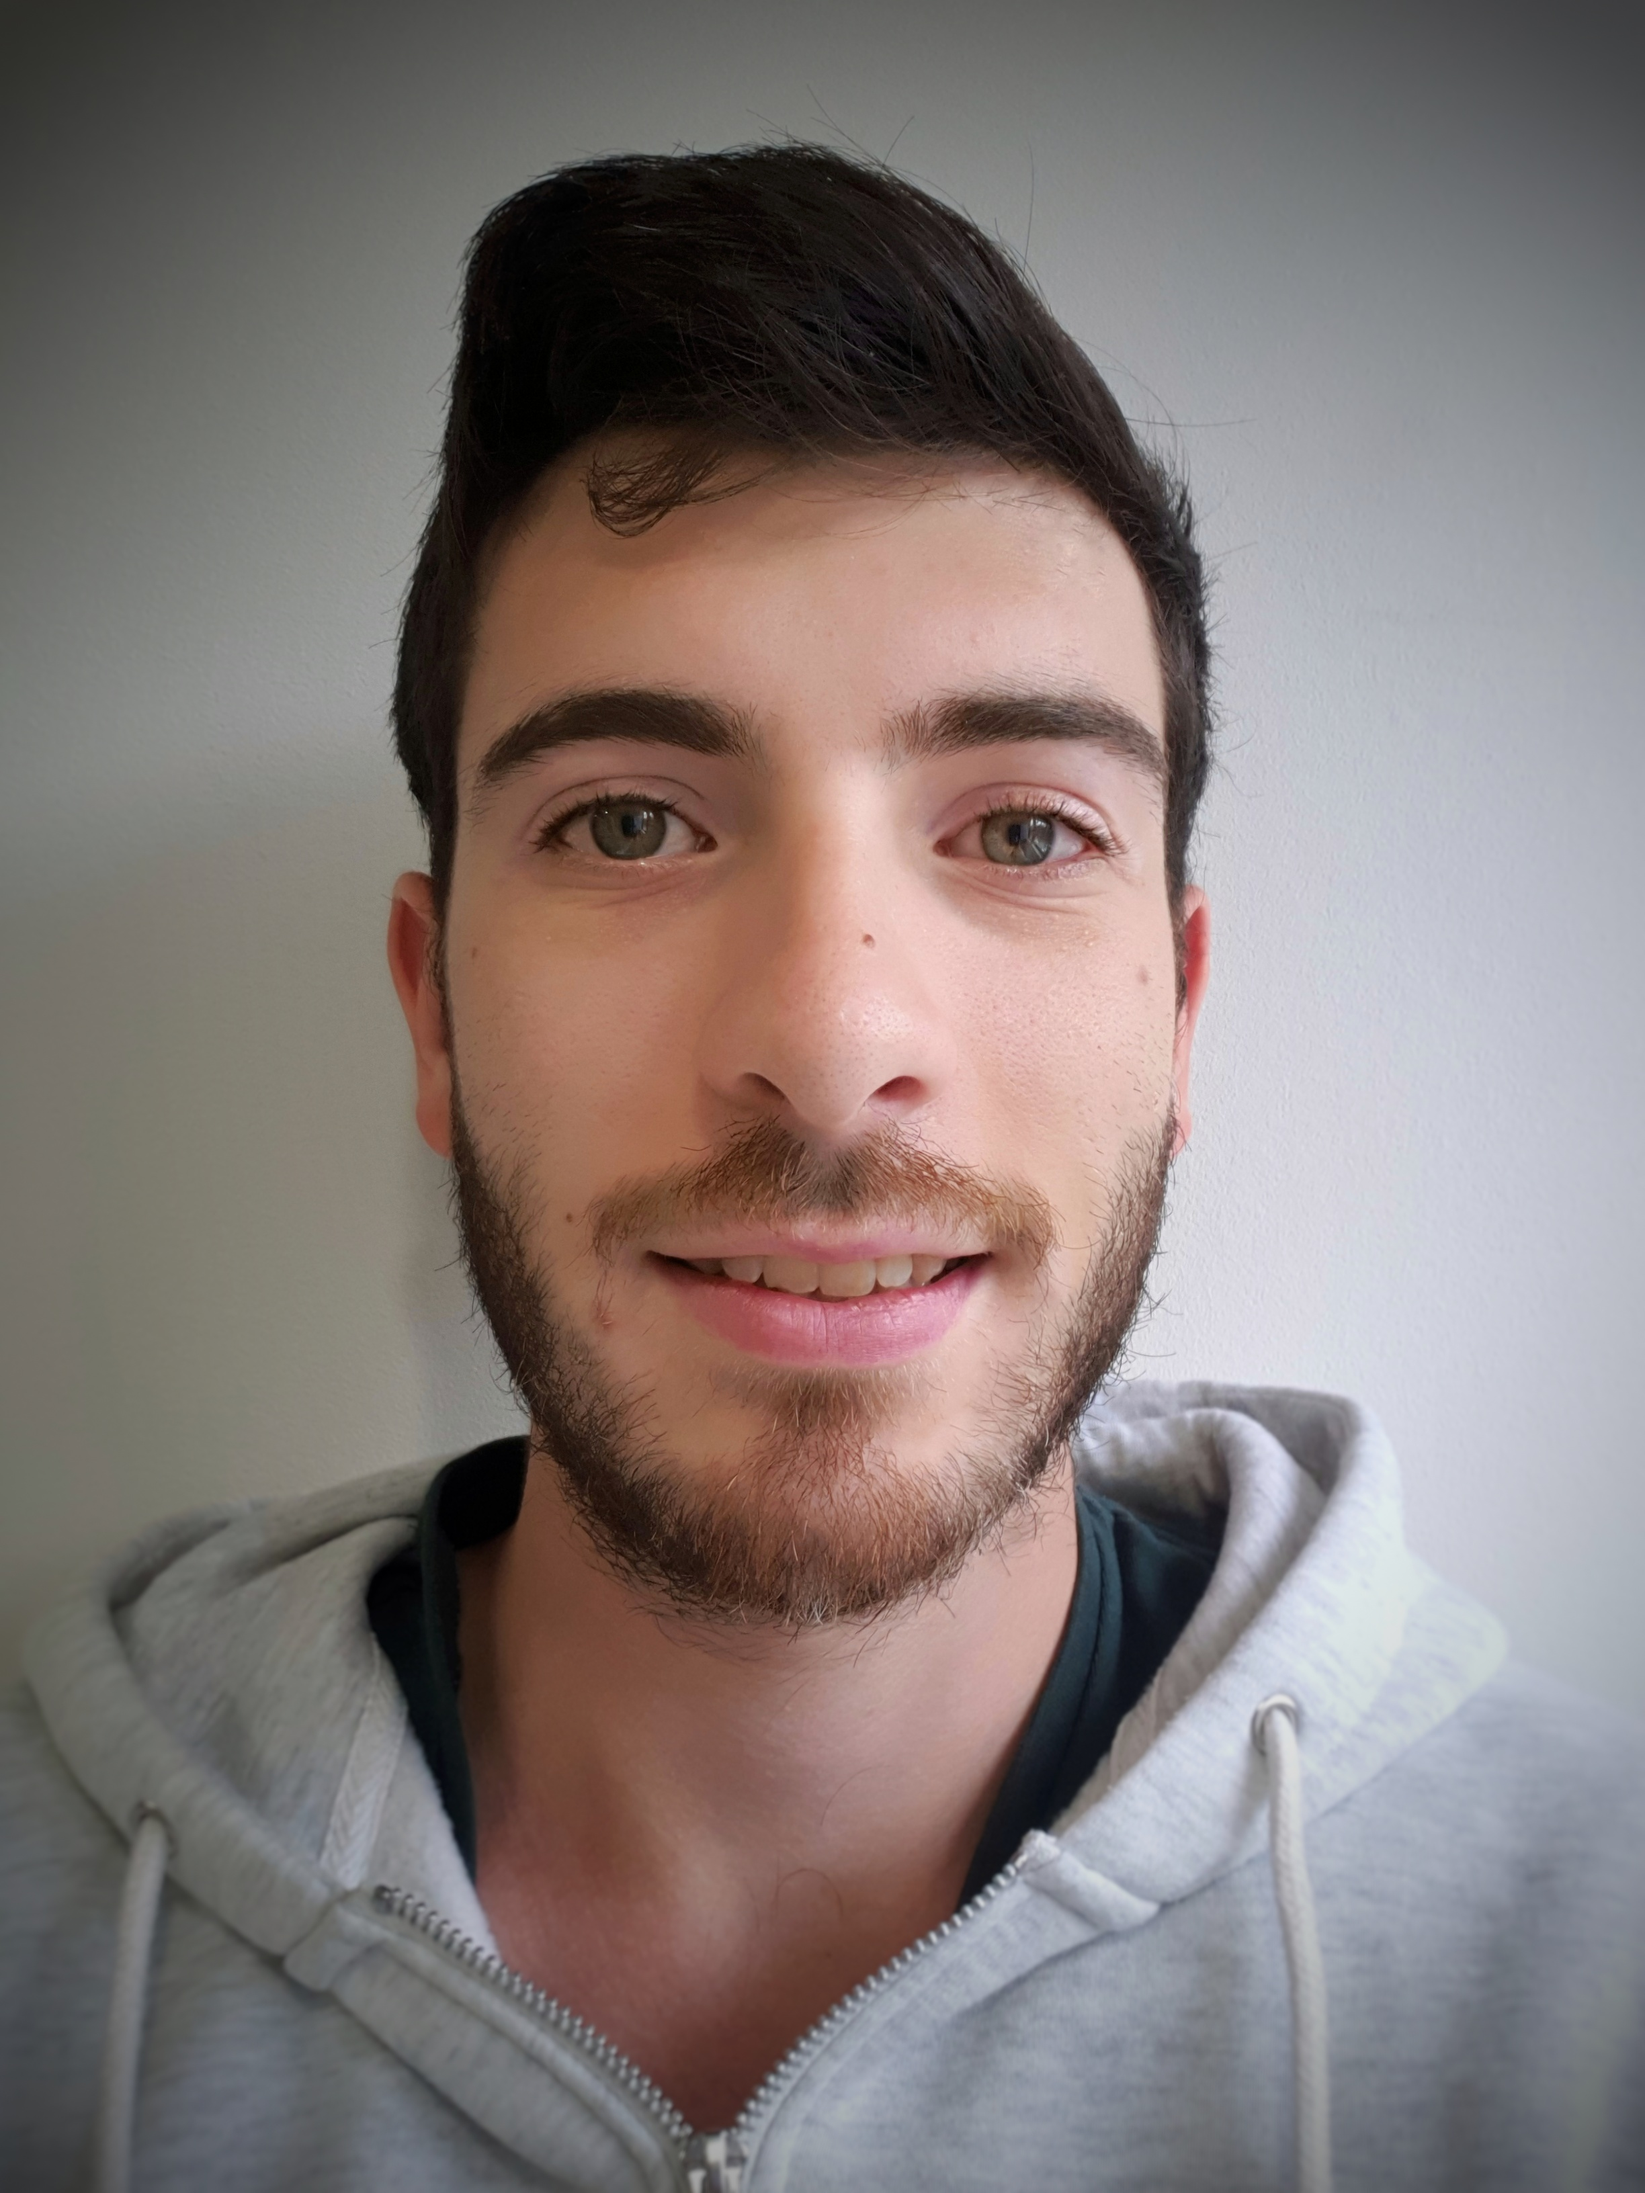
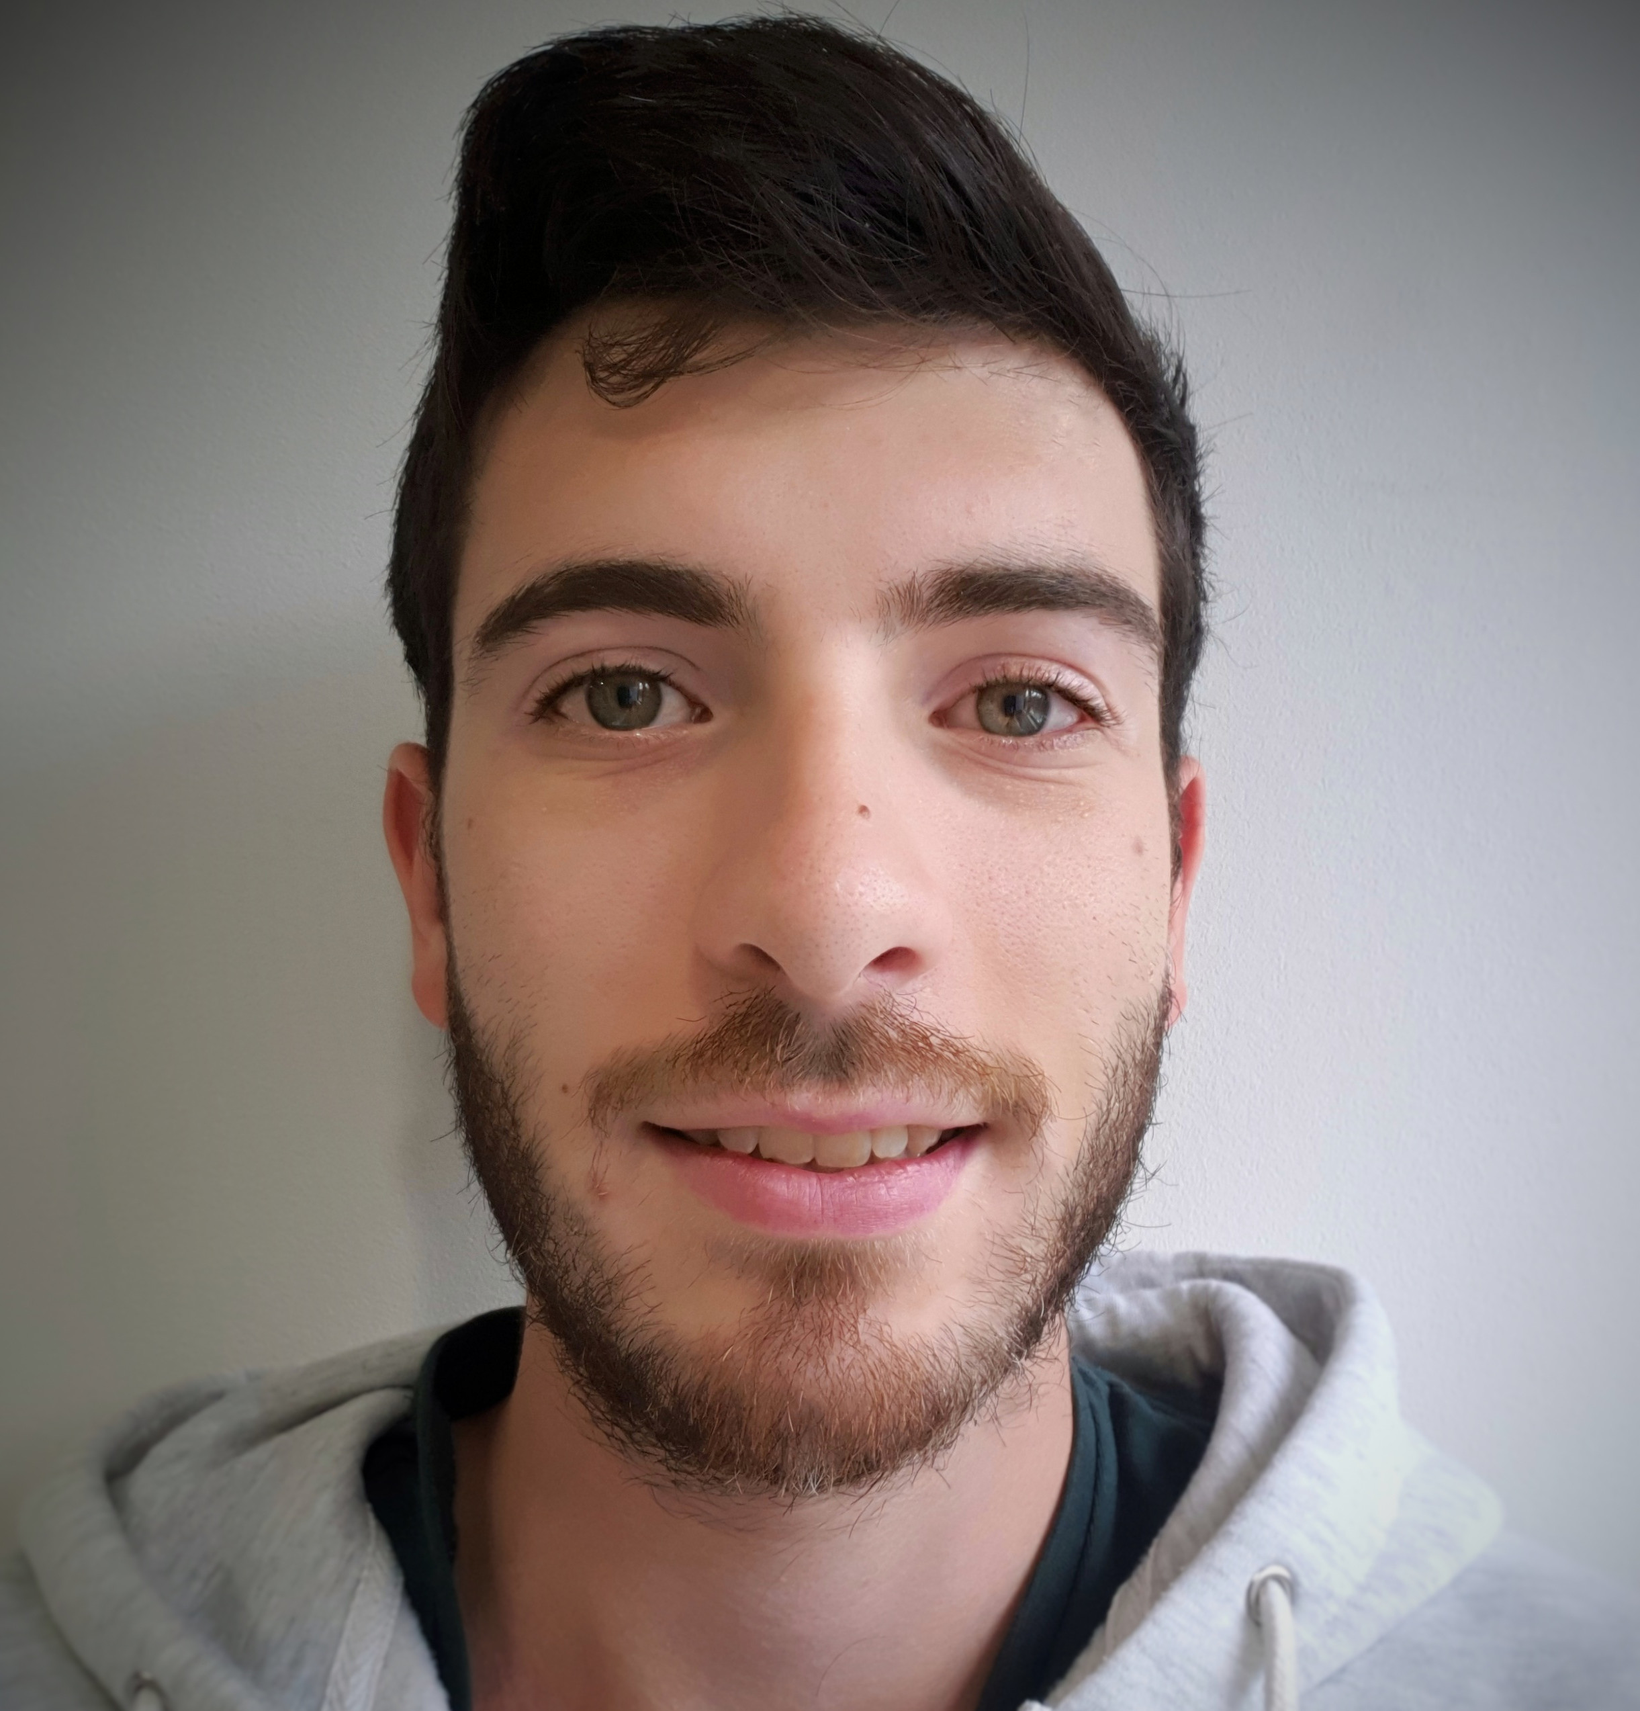
reduced images size, minor change about me

diff --git a/_pages/about.md b/_pages/about.md
@@ -1,8 +1,8 @@
 ---
-title: "About me"
+title: "My name is Luca"
 permalink: /about/
 ---
-My name is Luca. I study Computer Science at Univeristy of Milano-Bicocca, in Milan, Italy.
+I study Computer Science at Univeristy of Milano-Bicocca, in Milan, Italy.
 
 Since when I was young I wanted to understand how things work. This brought me to study Computer Science because I wanted to understand how computers and internet work.
 
